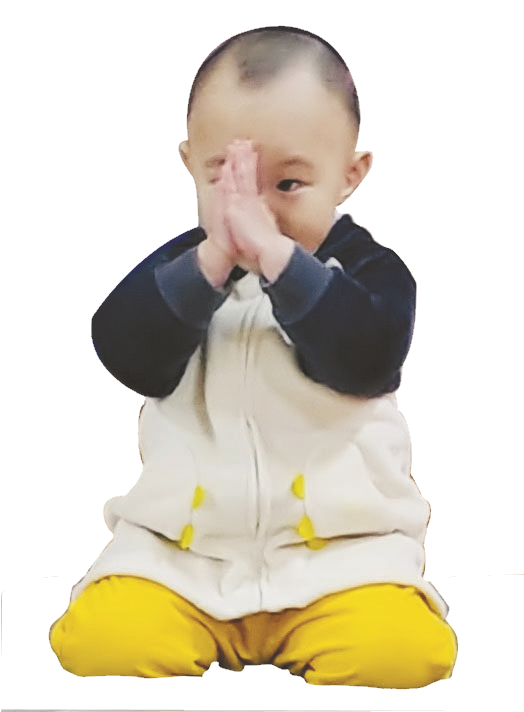
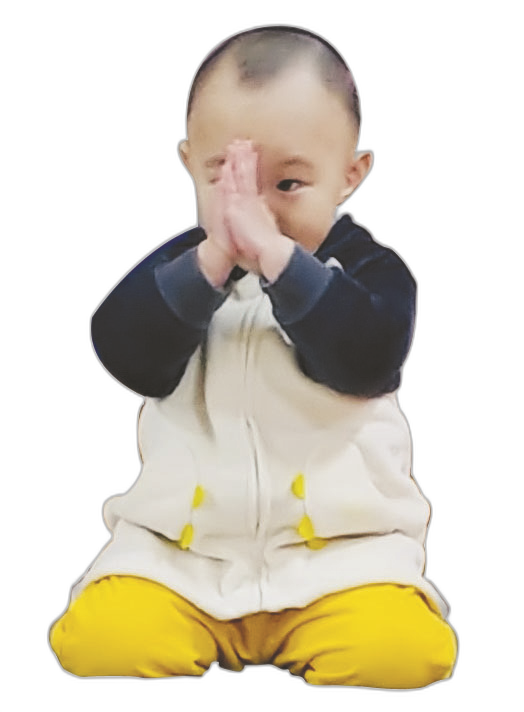
아기 사진 AI 재컷아웃, 위치 하향+우측 5mm, 채도 -30%, 행갈이 2곳

diff --git a/index.html b/index.html
@@ -110,7 +110,8 @@
   .letterBody::after { content: ''; display: block; clear: both; }
   .letterPhoto {
     float: right; width: min(230px, 44%);
-    margin: .2rem 0 .6rem 1.3rem;
+    margin: 3.4rem -5mm .6rem 1.3rem;  /* 아래로 내리고(상단여백) 오른쪽으로 5mm 이동 */
+    filter: saturate(70%);             /* 채도 30% 감소 (모양 변화 없음) */
   }
   #siteTitle { margin-top: 1.2rem; color: var(--navy); font-size: 1.05rem; letter-spacing: .12em; }
 
@@ -229,7 +230,7 @@
         <h2 class="letterHead" id="inviteLetterTitle">감정 스트레스 해소를 위한 약사여래 체험 수행</h2>
         <div class="letterBody" id="inviteLetterBody">
           <p>과거를 떠나 현재를 놓고, 미래를 여는 약사여래 수행의 길 —</p>
-          <p>온고이지신(溫故而知新) — 옛것을 익혀 새로운 깨달음을 얻듯, 수행은 과거에 머무는 일이 아니라 지혜를 배워 오늘을 새롭게 살아가는 일입니다. 인공지능과 기술 혁명의 시대에도 인간의 마음은 여전히 외로움과 불안 속에서 길을 찾고 있습니다.</p>
+          <p>온고이지신(溫故而知新) — 옛것을 익혀 새로운 깨달음을 얻듯, 수행은 과거에 머무는 일이<br>아니라 지혜를 배워 오늘을 새롭게 살아가는 일입니다. 인공지능과 기술 혁명의 시대에도<br>인간의 마음은 여전히 외로움과 불안 속에서 길을 찾고 있습니다.</p>
           <img class="letterPhoto" src="images/baby.png" alt="합장하는 아기">
           <p>과거는 배움으로 남기고, 현재는 수행으로 살아가며, 미래는 서원으로 맞이합니다.</p>
           <p>혜봉 스님과의 소중한 인연으로 이어진 쉐랍 텐진 선생님의 방한 — 티베트 수행 전통과 약사여래 부처님의 가르침으로 몸과 마음을 정화하고, 자신과 공동체, 인류를 향한 자비심을 키워 가는 여정입니다.</p>
